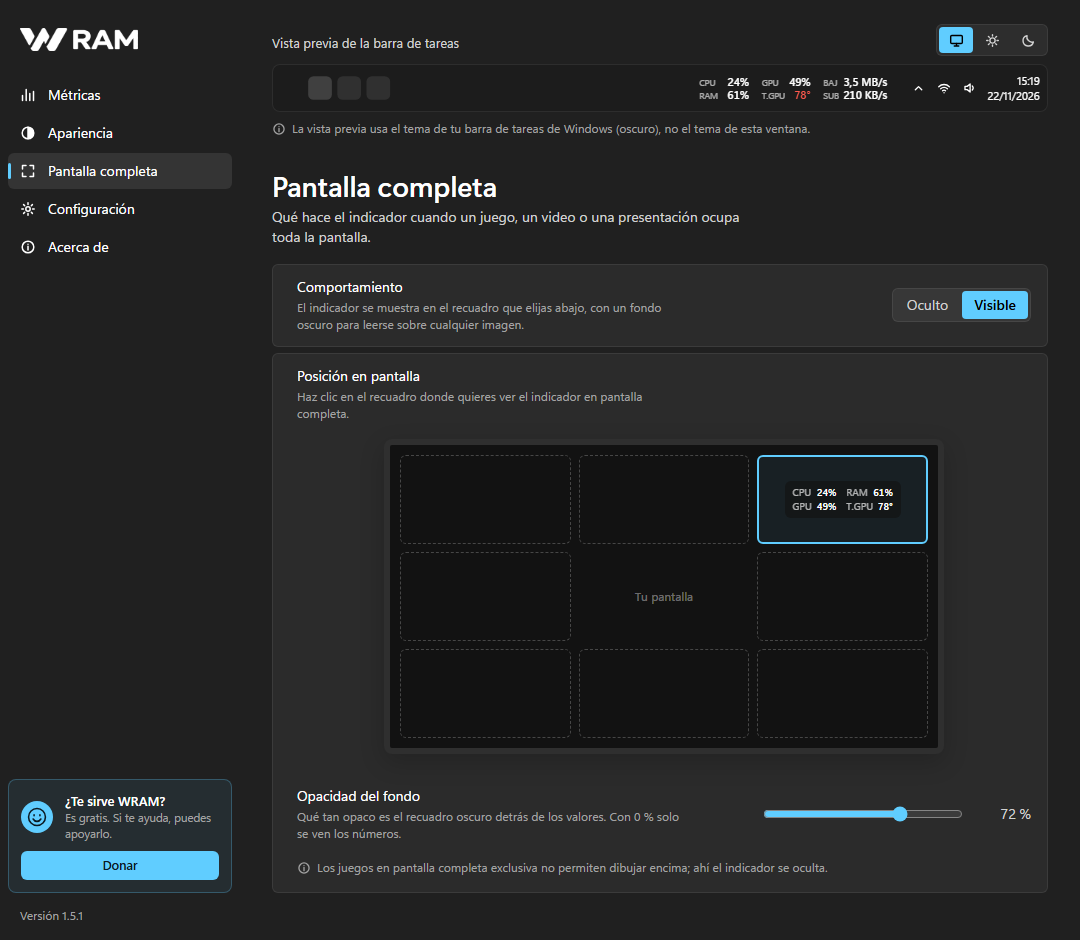
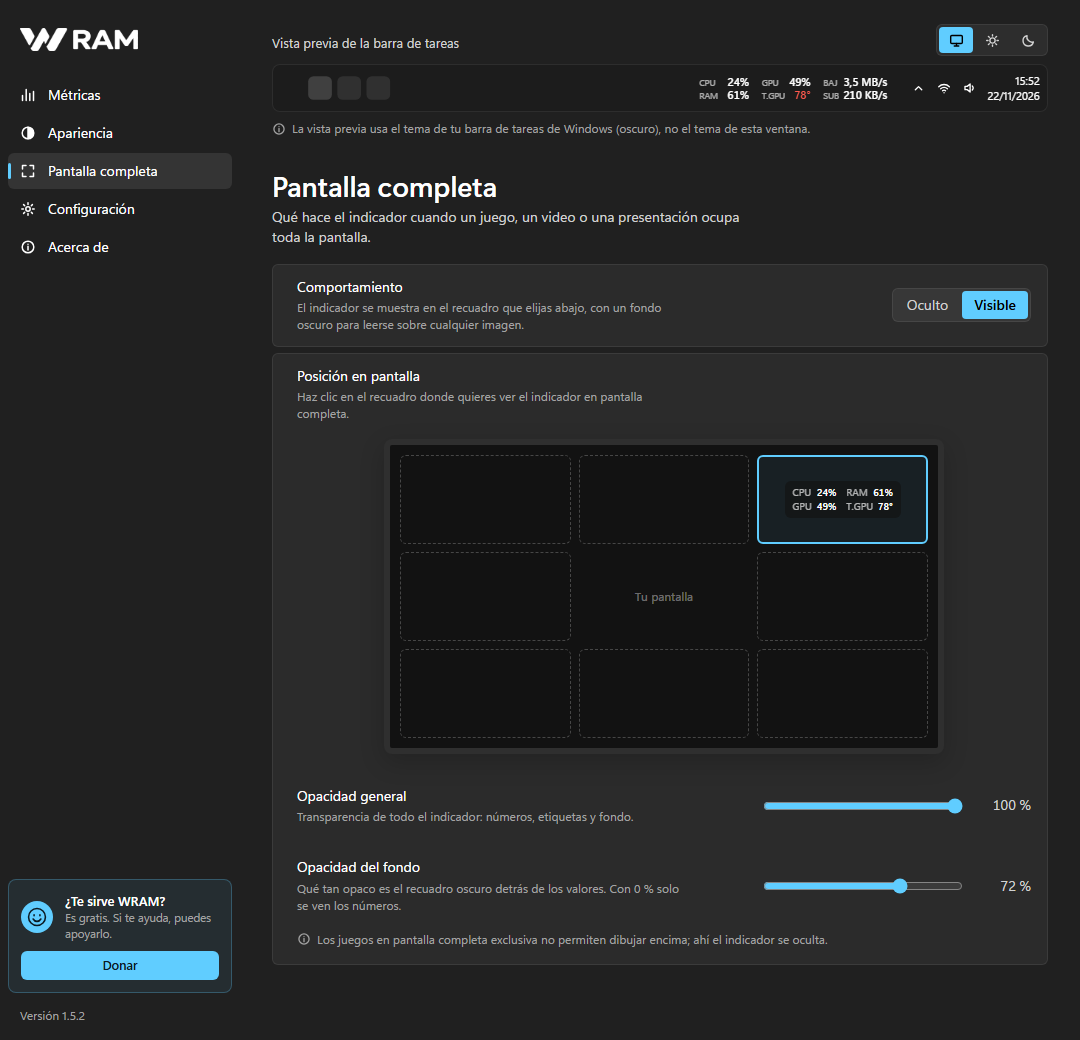
docs(repo): tamaño y consumo medidos, opacidad general y capturas actualizadas

diff --git a/README.es.md b/README.es.md
@@ -7,7 +7,7 @@
 
 <p align="center">
   Monitor del sistema para la barra de tareas de Windows.<br>
-  Hasta 10 métricas en vivo junto a la bandeja, en un solo ejecutable de unos 400 KB.
+  Hasta 10 métricas en vivo junto a la bandeja, en un solo ejecutable de unos 455 KB.
 </p>
 
 <p align="center">
@@ -39,7 +39,7 @@
   <a href="https://github.com/Ju4nMarin/WRAM/releases/latest"><img alt="Release" src="https://img.shields.io/github/v/release/Ju4nMarin/WRAM?style=flat-square"></a>
   <a href="https://github.com/Ju4nMarin/WRAM/actions/workflows/ci.yml"><img alt="CI" src="https://img.shields.io/github/actions/workflow/status/Ju4nMarin/WRAM/ci.yml?branch=main&style=flat-square&label=CI"></a>
   <a href="LICENSE"><img alt="License MIT" src="https://img.shields.io/badge/license-MIT-green?style=flat-square"></a>
-  <img alt="Size" src="https://img.shields.io/badge/WRAM.exe-%3C%20450%20KB-blue?style=flat-square">
+  <img alt="Size" src="https://img.shields.io/badge/WRAM.exe-%3C%20500%20KB-blue?style=flat-square">
   <a href="https://www.paypal.com/paypalme/evopl"><img alt="Donar con PayPal" src="https://img.shields.io/badge/donar-PayPal-00457C?style=flat-square&logo=paypal&logoColor=white"></a>
 </p>
 
@@ -57,7 +57,7 @@ WRAM dibuja una franja de texto a la izquierda de la bandeja del sistema con las
 - En pantalla completa puede quedar oculta o visible en el recuadro de pantalla que elijas, y reacciona en el acto al entrar y al salir.
 - Interfaz en español, inglés, portugués, francés, chino simplificado y japonés.
 - Sin permisos de administrador, sin drivers y sin runtime: un solo `WRAM.exe`.
-- En reposo usa cerca de 9 MB de memoria y 0,2 % de un núcleo de CPU.
+- En reposo usa entre 12 y 17 MB de memoria y menos del 1 % de un núcleo de CPU.
 
 ![Métricas en tema oscuro](docs/img/app/metricas-oscuro.png)
 

diff --git a/README.md b/README.md
@@ -7,7 +7,7 @@
 
 <p align="center">
   System monitor for the Windows taskbar.<br>
-  Up to 10 live metrics next to the tray, in a single executable of about 400 KB.
+  Up to 10 live metrics next to the tray, in a single executable of about 455 KB.
 </p>
 
 <p align="center">
@@ -39,7 +39,7 @@
   <a href="https://github.com/Ju4nMarin/WRAM/releases/latest"><img alt="Release" src="https://img.shields.io/github/v/release/Ju4nMarin/WRAM?style=flat-square"></a>
   <a href="https://github.com/Ju4nMarin/WRAM/actions/workflows/ci.yml"><img alt="CI" src="https://img.shields.io/github/actions/workflow/status/Ju4nMarin/WRAM/ci.yml?branch=main&style=flat-square&label=CI"></a>
   <a href="LICENSE"><img alt="License MIT" src="https://img.shields.io/badge/license-MIT-green?style=flat-square"></a>
-  <img alt="Size" src="https://img.shields.io/badge/WRAM.exe-%3C%20450%20KB-blue?style=flat-square">
+  <img alt="Size" src="https://img.shields.io/badge/WRAM.exe-%3C%20500%20KB-blue?style=flat-square">
   <a href="https://www.paypal.com/paypalme/evopl"><img alt="Donate with PayPal" src="https://img.shields.io/badge/donate-PayPal-00457C?style=flat-square&logo=paypal&logoColor=white"></a>
 </p>
 
@@ -57,7 +57,7 @@ WRAM draws a text strip to the left of the system tray with the metrics you choo
 - In full screen it can stay hidden or visible in a spot you pick on the screen, and reacts instantly when entering and leaving.
 - Interface in Spanish, English, Portuguese, French, Simplified Chinese and Japanese.
 - No administrator rights, no drivers, no runtime: a single `WRAM.exe`.
-- At idle it uses about 9 MB of memory and 0.2% of one CPU core.
+- At idle it uses about 12 to 17 MB of memory and under 1% of one CPU core.
 
 ![Metrics, dark theme](docs/img/app/metrics-dark.png)
 

diff --git a/docs/es/arquitectura.md b/docs/es/arquitectura.md
@@ -87,11 +87,13 @@ Equipo de desarrollo, 6 métricas, intervalo de 1 s:
 
 | Estado | Memoria (working set) | CPU |
 |---|---|---|
-| En reposo | 9,4 MB | 47 ms cada 20 s (0,23 % de un núcleo) |
-| Configuración abierta | 26 MB más los procesos de WebView2 | |
-| Tras cerrar la configuración | 9,0 MB, sin procesos de WebView2 | 47 ms cada 20 s |
+| En reposo | 12 a 17 MB | 0,3 % a 0,6 % de un núcleo |
+| Configuración abierta | 23 a 27 MB más 6 procesos de WebView2 | |
+| Tras cerrar la configuración | 12 a 13 MB, sin procesos de WebView2 | |
+
+Ejecutable: 465 408 bytes (unos 455 KB), sin runtime ni archivos adicionales.
 
 ## Pendiente
 
-- Barra de tareas vertical y barras de monitores secundarios.
 - Temperatura de CPU por núcleo, que requiere un driver de kernel.
+- La franja queda debajo de la barra de tareas mientras el menú Inicio o la búsqueda están abiertos, porque Windows sube la barra por encima de todas las ventanas durante ese tiempo.

diff --git a/docs/architecture.md b/docs/architecture.md
@@ -87,11 +87,13 @@ Development PC, 6 metrics, 1 s interval:
 
 | State | Memory (working set) | CPU |
 |---|---|---|
-| Idle | 9.4 MB | 47 ms every 20 s (0.23% of one core) |
-| Settings window open | 26 MB plus WebView2 processes | |
-| After closing the settings window | 9.0 MB, no WebView2 processes | 47 ms every 20 s |
+| Idle | 12 to 17 MB | 0.3% to 0.6% of one core |
+| Settings window open | 23 to 27 MB plus 6 WebView2 processes | |
+| After closing the settings window | 12 to 13 MB, no WebView2 processes | |
+
+Executable: 465,408 bytes (about 455 KB), with no runtime or extra files.
 
 ## Pending
 
-- Vertical taskbar and taskbars on secondary monitors.
 - Per-core CPU temperature, which requires a kernel driver.
+- The strip stays below the taskbar while the Start menu or search is open, because Windows raises the taskbar above every other window during that time.

diff --git a/docs/es/uso.md b/docs/es/uso.md
@@ -55,7 +55,9 @@ Qué hace la franja cuando un juego, un video o una presentación ocupa toda la 
 
 Con Visible, el monitor de ejemplo tiene 8 recuadros (esquinas, centros de los bordes superior e inferior y centros laterales); se elige con un clic. Los juegos en pantalla completa exclusiva no permiten otras ventanas encima, así que ahí la franja siempre se oculta.
 
-"Opacidad del fondo" define qué tan opaco es el recuadro oscuro detrás de los valores, de 0 % (solo los números) a 100 %. El valor inicial es 72 %.
+"Opacidad general" define la transparencia de todo el indicador (números, etiquetas y fondo), de 10 % a 100 %. El valor inicial es 100 %.
+
+&
 
 ### Configuración
 

diff --git a/docs/usage.md b/docs/usage.md
@@ -55,7 +55,9 @@ What the strip does when a game, video or presentation takes the whole screen. I
 
 With Visible, the screen diagram has 8 spots (corners, edge centers and side centers); click one to choose it. Games in exclusive full screen do not allow other windows on top, so there the strip is always hidden.
 
-"Background opacity" sets how opaque the dark box behind the values is, from 0% (numbers only) to 100%. The default is 72%.
+"Overall opacity" sets the transparency of the whole indicator (numbers, labels and background), from 10% to 100%. The default is 100%.
+
+&
 
 ### Settings
 
